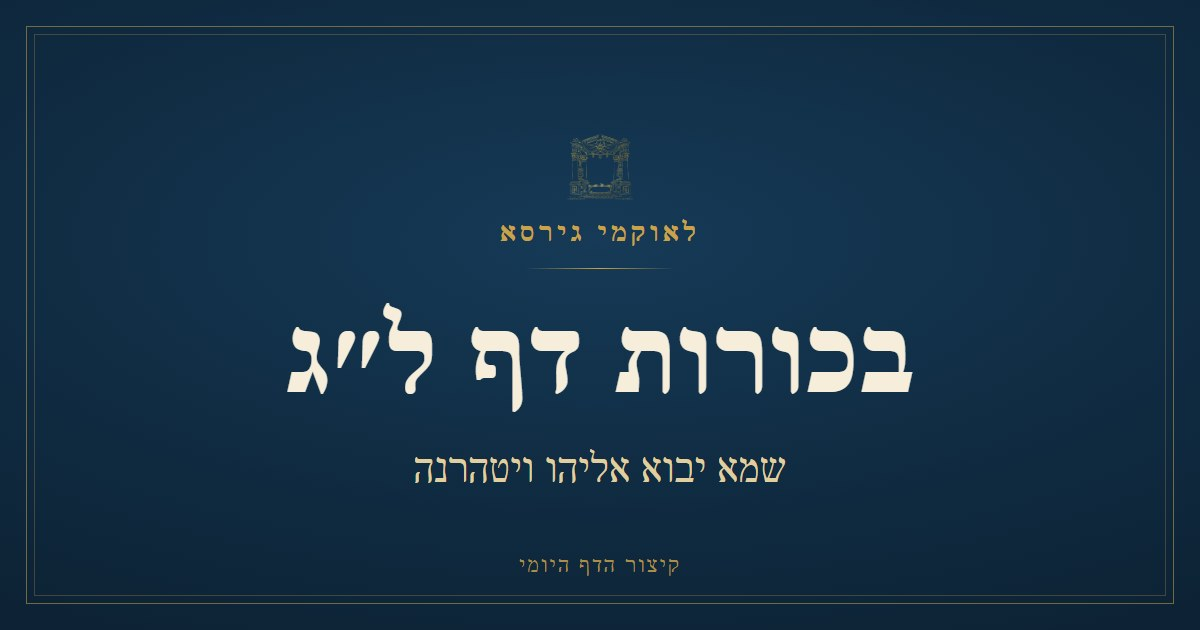
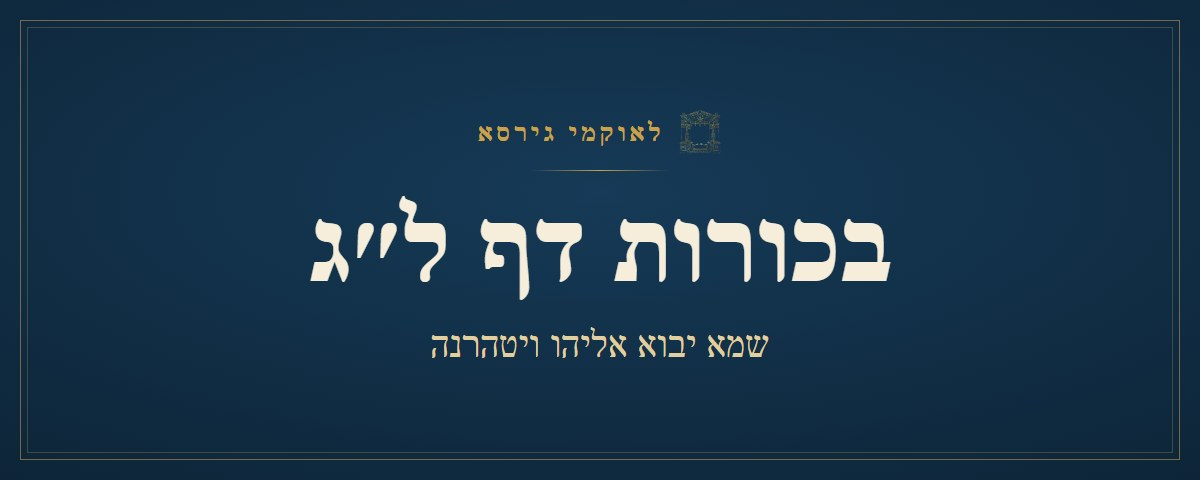
הדף היומי: כרטיס נמוך יותר (1200x480) ושם הדף בגופן וילנא, לבקשת בעל הפרויקט; כל הכרטיסים הופקו מחדש

diff --git a/tools/daf_wa/card.html b/tools/daf_wa/card.html
@@ -1,30 +1,28 @@
 <!DOCTYPE html>
 <html lang="he" dir="rtl"><head><meta charset="utf-8">
 <style>
-/* כרטיס התצוגה המקדימה של הדף (פרומפט 23): 1200x630, כחול קטיפה וזהב של האתר. בלי רקעי הדגשה מאחורי טקסט. */
+/* כרטיס התצוגה המקדימה של הדף (פרומפט 23): 1200x480, כחול קטיפה וזהב של האתר. בלי רקעי הדגשה מאחורי טקסט.
+   8.11.2026 (בעל הפרויקט): שם הדף בגופן וילנא, והכרטיס נמוך יותר - שלא יתפוס יותר מדי מן המסך. */
 @font-face{font-family:'Frank';src:url(@@FONTS@@/frank.woff2) format('woff2');font-weight:400}
 @font-face{font-family:'Vilna';src:url(@@FONTS@@/vilna-r.woff2) format('woff2');font-weight:400}
 @font-face{font-family:'Vilna';src:url(@@FONTS@@/vilna-b.woff2) format('woff2');font-weight:700}
-@font-face{font-family:'VilnaX';src:url(@@FONTS@@/vilna-xb.woff2) format('woff2');font-weight:900}
-html,body{margin:0;width:1200px;height:630px;overflow:hidden}
-body{background:radial-gradient(120% 95% at 50% 38%,#163a57 0%,#0f2a40 46%,#0b1c2a 100%);color:#f3ead6;font-family:'Frank',serif;position:relative}
-.frame{position:absolute;inset:26px;border:1.5px solid rgba(201,162,74,.55)}
-.frame:after{content:'';position:absolute;inset:7px;border:.75px solid rgba(201,162,74,.28)}
+html,body{margin:0;width:1200px;height:480px;overflow:hidden}
+body{background:radial-gradient(120% 110% at 50% 40%,#163a57 0%,#0f2a40 50%,#0b1c2a 100%);color:#f3ead6;font-family:'Frank',serif;position:relative}
+.frame{position:absolute;inset:20px;border:1.5px solid rgba(201,162,74,.55)}
+.frame:after{content:'';position:absolute;inset:6px;border:.75px solid rgba(201,162,74,.28)}
 .wrap{position:absolute;inset:0;display:flex;flex-direction:column;align-items:center;justify-content:center;text-align:center}
-.gate{width:66px;height:66px;margin-bottom:14px;opacity:.95}
-.brand{font-family:'Vilna',serif;font-weight:700;font-size:30px;letter-spacing:.14em;color:#c9a24a}
-.rule{width:150px;height:1px;background:linear-gradient(90deg,transparent,#c9a24a,transparent);margin:20px 0 24px}
-.daf{font-family:'VilnaX','Vilna',serif;font-weight:900;font-size:118px;line-height:1.02;color:#f6eedb;letter-spacing:.01em}
-.line{font-family:'Frank',serif;font-size:44px;line-height:1.3;color:#e2cf9f;margin-top:26px;max-width:1000px}
-.foot{position:absolute;bottom:52px;left:0;right:0;text-align:center;font-family:'Vilna',serif;font-size:24px;letter-spacing:.08em;color:rgba(201,162,74,.85)}
+.top{display:flex;align-items:center;gap:14px}
+.gate{width:44px;height:44px;opacity:.95}
+.brand{font-family:'Vilna',serif;font-weight:700;font-size:28px;letter-spacing:.14em;color:#c9a24a}
+.rule{width:140px;height:1px;background:linear-gradient(90deg,transparent,#c9a24a,transparent);margin:16px 0 14px}
+.daf{font-family:'Vilna',serif;font-weight:700;font-size:112px;line-height:1.05;color:#f6eedb}
+.line{font-family:'Frank',serif;font-size:40px;line-height:1.3;color:#e2cf9f;margin-top:16px;max-width:1040px}
 </style></head><body>
 <div class="frame"></div>
 <div class="wrap">
-  <img class="gate" src="@@GATE@@" alt="">
-  <div class="brand">לאוקמי גירסא</div>
+  <div class="top"><img class="gate" src="@@GATE@@" alt=""><div class="brand">לאוקמי גירסא</div></div>
   <div class="rule"></div>
   <div class="daf">@@DAF@@</div>
   <div class="line">@@LINE@@</div>
 </div>
-<div class="foot">קיצור הדף היומי</div>
 </body></html>

diff --git a/tools/daf_wa/index.html b/tools/daf_wa/index.html
@@ -7,7 +7,7 @@
 <meta property="og:site_name" content="לאוקמי גירסא"><meta property="og:title" content="לאוקמי גירסא - קיצור הדף היומי">
 <meta property="og:description" content="הדף היומי בקיצור לאוקמי גירסא - בתצוגה קלה לטלפון">
 <meta property="og:url" content="https://leokmei.com/daf/">
-<meta property="og:image" content="https://leokmei.com/daf/og/_general.jpg"><meta property="og:image:width" content="1200"><meta property="og:image:height" content="630">
+<meta property="og:image" content="https://leokmei.com/daf/og/_general.jpg"><meta property="og:image:width" content="1200"><meta property="og:image:height" content="480">
 <meta name="twitter:card" content="summary_large_image">
 <link rel="canonical" href="https://leokmei.com/daf/">
 <style>html,body{margin:0;background:#fdfbf6;color:#2a2520;font-family:serif}p{text-align:center;margin-top:30vh;font-size:15px;color:#9a9080}</style>

diff --git a/tools/daf_wa/page.html b/tools/daf_wa/page.html
@@ -7,7 +7,7 @@
 <meta property="og:type" content="article"><meta property="og:locale" content="he_IL">
 <meta property="og:site_name" content="לאוקמי גירסא"><meta property="og:title" content="@@OGTITLE@@">
 <meta property="og:description" content="@@DESC@@"><meta property="og:url" content="@@URL@@">
-<meta property="og:image" content="@@OG@@"><meta property="og:image:width" content="1200"><meta property="og:image:height" content="630">
+<meta property="og:image" content="@@OG@@"><meta property="og:image:width" content="1200"><meta property="og:image:height" content="480">
 <meta property="og:image:alt" content="@@DAF@@"><meta name="twitter:card" content="summary_large_image">
 <meta name="theme-color" content="#fdfbf6">
 <link rel="icon" href="/favicon.ico" sizes="any">

diff --git a/tools/daf_wa/board.html b/tools/daf_wa/board.html
@@ -41,7 +41,7 @@ textarea{width:100%;min-height:330px;font-family:inherit;font-size:15px;line-hei
 .wa{background:var(--wabg);border-radius:10px;padding:10px}
 .bub{background:var(--wa);border-radius:8px;padding:4px 4px 8px;box-shadow:0 1px .5px rgba(0,0,0,.13);font-family:system-ui,'Segoe UI',Arial,sans-serif;font-size:14.2px;line-height:1.42;color:#111}
 .pv{background:#d9f2c9;border-radius:6px;overflow:hidden;margin-bottom:6px}
-.pv img{display:block;width:100%;aspect-ratio:1200/630;object-fit:cover;background:#123049}
+.pv img{display:block;width:100%;aspect-ratio:1200/480;object-fit:cover;background:#123049}
 .pv .t{font-weight:600;padding:6px 8px 0;font-size:13.5px}
 .pv .d{padding:0 8px;font-size:12.5px;color:#444}
 .pv .u{padding:0 8px 6px;font-size:12px;color:#666}

diff --git a/tools/daf_wa/card.py b/tools/daf_wa/card.py
@@ -1,5 +1,5 @@
 # -*- coding: utf-8 -*-
-"""כרטיס התצוגה המקדימה של כל דף (פרומפט 23): 1200x630 JPEG ל-og:image.
+"""כרטיס התצוגה המקדימה של כל דף (פרומפט 23): 1200x480 JPEG ל-og:image (8.11.2026: נמוך יותר, לבקשת בעל הפרויקט).
 
 רץ אצל מי שכותב את תוכן ההודעה (שיחה במחשב או משימה בענן), אחרי שהבודק אישר את התוכן,
 ושומר ל-data/daf-wa/og/<slug>-<n>.jpg. הבנייה באתר רק מעתיקה (build.py) - כדי שבניית האתר
@@ -35,7 +35,7 @@ def render(jobs):
     os.makedirs(OG, exist_ok=True)
     with sync_playwright() as p:
         b = p.chromium.launch()
-        pg = b.new_page(viewport={'width': 1200, 'height': 630}, device_scale_factor=1)
+        pg = b.new_page(viewport={'width': 1200, 'height': 480}, device_scale_factor=1)
         for name, daf, line in jobs:
             pg.set_content(tpl.replace('@@DAF@@', H.escape(daf)).replace('@@LINE@@', H.escape(line)), wait_until='load')
             pg.evaluate('document.fonts.ready')
